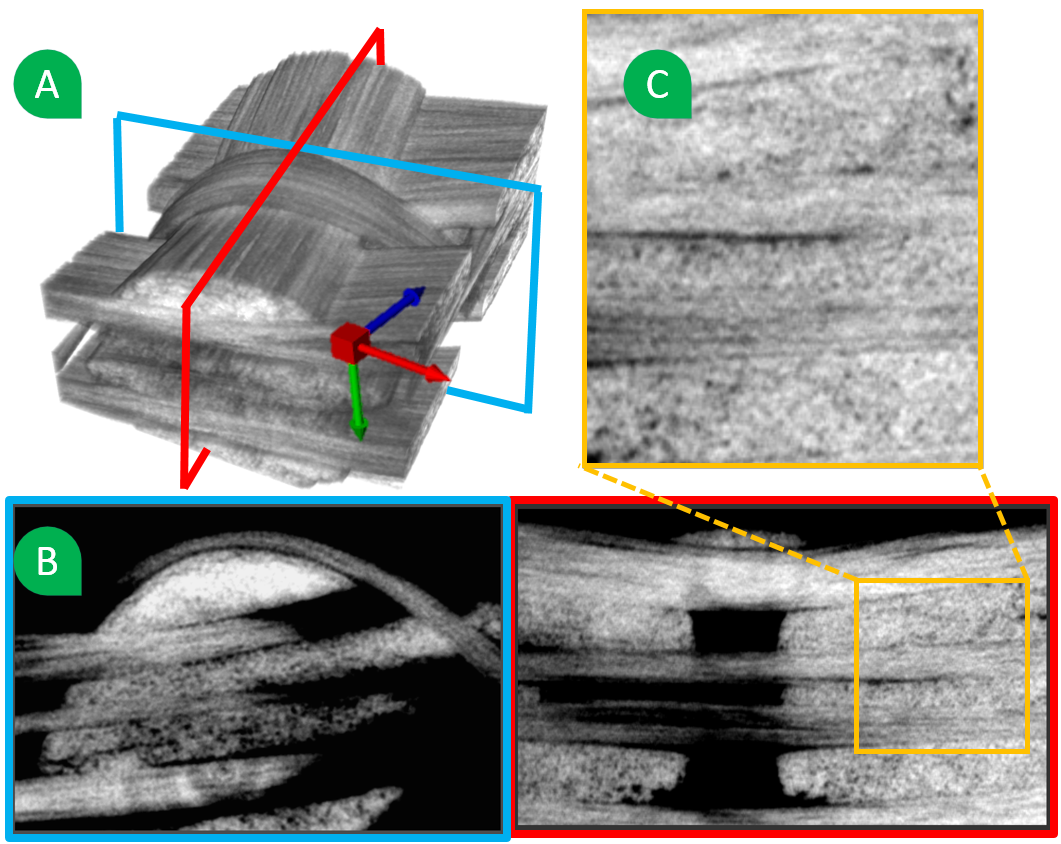
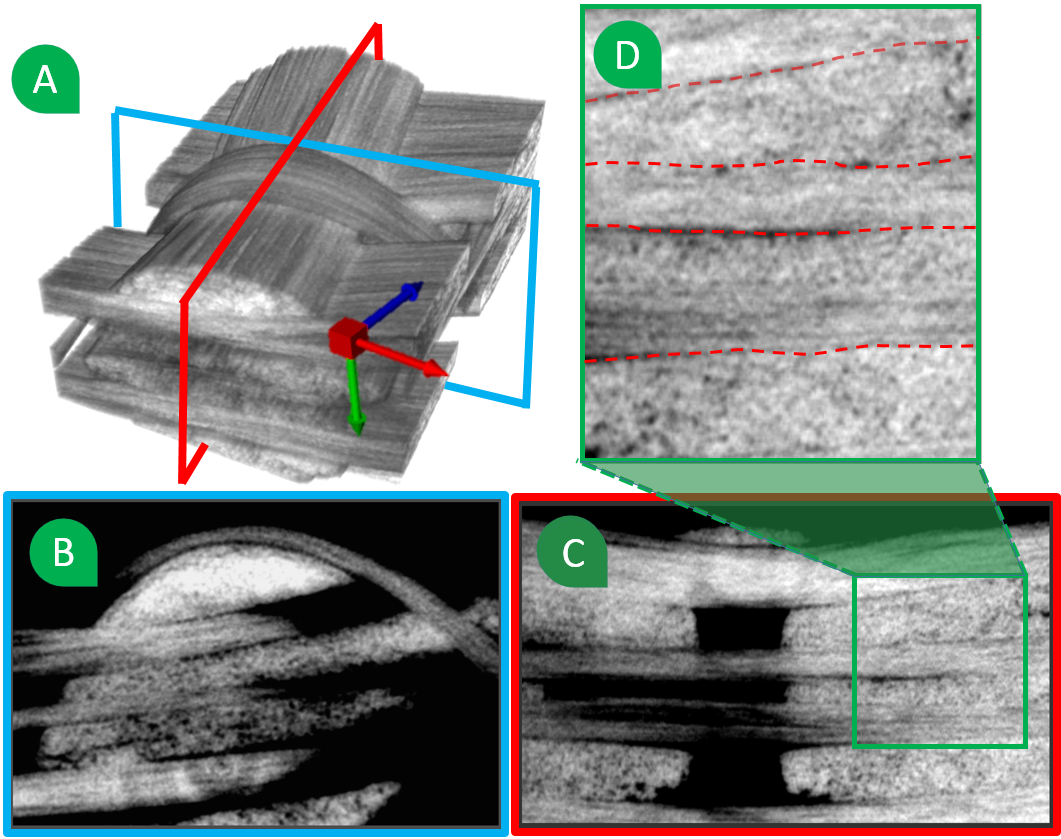
updated image,

diff --git a/chapters/MetaTracts.tex b/chapters/MetaTracts.tex
@@ -157,7 +157,7 @@ Tools based on image analysis, fiber tracking and clustering into bundles in DTI
 
 \begin{figure}
 \includegraphics[width=0.5\textwidth,clip=true, trim= 0cm 0cm 0cm 0cm]{imagesMT2014/MT_data_4_2.png}
-\caption{Data Characteristics. A: Shows a rendering of the data. B: Shows 2D slices along the X (Right) and Z (Left) axis. C: Shows a zoom of the yellow square, multiple bundles cross and are indistinguishable by visual inspection alone. }
+\caption{Data Characteristics. A: Shows a rendering of the data. B: Shows 2D slices along the X (Right) and Z (Left) axis. C: Shows a zoom of the green square, multiple bundles cross and are indistinguishable by visual inspection alone. }
 \label{fig:data-char}
 \end{figure}
 \section {Data Characteristic and Assumptions}
@@ -201,7 +201,7 @@ We make the following assumptions on our data.
 
 \begin{figure}
 \centering
-\includegraphics[width=0.45\textwidth]{imagesMT2014/algo_A.png}
+\includegraphics[width=0.5\textwidth]{imagesMT2014/algo.png}
 \caption{Flow chart of our approach}
 \label{fig:flowchart}
 \end{figure}
@@ -315,7 +315,7 @@ In $\mathbb{R}^2$ all the above properties hold except that cylinders are replac
 
 \begin{figure}[h]
   \begin{center}
-  \includegraphics[ width=0.9\linewidth]{imagesMT2014/MT_abstract_A2} %algo-1d}
+  \includegraphics[ width=0.4\textwidth]{imagesMT2014/MT_abstract} 
   \end{center}
  \caption{MetaTracts generation. B. MetaTract generation, region with $R_H$ less than threshold. A: close up of marked region in A. C: Parts of a single MetaTract.}
   \label{fig:algo}
@@ -347,7 +347,7 @@ Priority = \gamma_1 e^{(-angle^2 / \alpha^2)} + \gamma_2e^{(-dist^2 / \beta^2)}
 \end{equation}
  $\gamma_1$, $\gamma_2$ are the  weights ($\mathbb{R}_{\ge 0}$)  which decide how the priority depends on the affine combination of the two factors. For all our cases we use ($\gamma_1$ = $1 / 3 $ and $\gamma_2$ = $2 / 3$). In general we suggest $\gamma_1 +\gamma_2 = 1 $ and $\gamma_1 \leq \gamma_2$). At each iteration we pick the top element in the priority queue generate the corresponding cylinder and repeat the steps. Essentially, Eqn.~\ref{eqn:algo_1}, selects a grid point which is the furthest from the current point and going in a similar direction. This gives it the advantage of tackling noise/errors in local orientation better than integral curves by looking at multiple choices for vertices and avoiding intra cell interpolation (for orientation) in an already noisy environment. 
  
- In this particular example Figure~\ref{fig:algo}B we select the orange grid vertex next and repeat the process. We do not select the purple vertex (Figure~\ref{fig:algo}C) because it is not a candidate vertex. If we generate tracts that have erroneous local orientations they will not be able to find further possible candidate vertices and will be of short length. Short tracts are then remove. The MetaTracts generated are shown in Figure~\ref{fig:length_distribution}(a). The MetaTracts are colored with the mean orientation direction mapped to the RGB space. That consistent orientation is a key intrinsic feature in the data becomes visually pronounced.
+ In this particular example Figure~\ref{fig:algo}B we select the orange grid vertex next and repeat the process. We do not select the purple vertex (Figure~\ref{fig:algo}C) because it is not a candidate vertex. If we generate tracts that have erroneous local orientations they will not be able to find further possible candidate vertices and will be of short length. Short tracts are then remove. The MetaTracts generated are shown in Figure~\ref{fig:length_distribution}(A). The MetaTracts are colored with the mean orientation direction mapped to the RGB space. That consistent orientation is a key intrinsic feature in the data becomes visually pronounced.
  We apply uniform, dense seeding to the XCT volume data to trace and generate the tracts of fiber bundles. 
  
 % \begin{figure}[h]
@@ -392,11 +392,8 @@ Priority = \gamma_1 e^{(-angle^2 / \alpha^2)} + \gamma_2e^{(-dist^2 / \beta^2)}
 
 \begin{figure}[h]
 \centering
-%	\subfloat[]{\includegraphics[width=0.49\linewidth]{imagesMT2014/MT_crop16_MT_2.png}}
-	\subfloat[]{\includegraphics[width=0.49\linewidth]{imagesMT2014/MT_crop16_MT_2.PNG}} 
-	\subfloat[]{\includegraphics[width=0.49\linewidth]{imagesMT2014/length_distribution.PNG}}\\
-%	\subfloat[]{\includegraphics[width=0.9\linewidth]{imagesMT2014/mt_crop_16_orient.PNG}}
-	\caption{(a) MetaTracts colored according to mean orientations. (b) length distribution of individual MetaTracts for a particular bundle.}
+	\includegraphics[width=0.4\textwidth]{imagesMT2014/crop-16/length_dist.png}
+	\caption{(A) MetaTracts colored according to mean orientations. (B) length distribution of individual MetaTracts for a particular bundle.}
 	\label{fig:length_distribution}
 \end{figure}
 
@@ -405,7 +402,7 @@ Priority = \gamma_1 e^{(-angle^2 / \alpha^2)} + \gamma_2e^{(-dist^2 / \beta^2)}
 The output of the above step is a set of MetaTracts. In this step we focus on clustering the MetaTracts into plausible bundles. We use hierarchical clustering which has enjoyed considerable attention and success in DTI field. 
 
 However, the MetaTracts produced as described in Section 4 often do not extend the full length of the fiber bundle.  Thus, MetaTracts
-in a given fiber bundle may have very different lengths and may only partially overlap Figure~\ref{fig:length_distribution}(b).
+in a given fiber bundle may have very different lengths and may only partially overlap Figure~\ref{fig:length_distribution}(B).
 
 Moreover, Carbon fibers have both orientation and proximity information which can be used for clustering. Instead of creating some formula
 which artificially combined the two measures,  we first cluster based on orientation and then further subdivide each orientation cluster using proximity information. We found that different clustering methods were preferable
@@ -463,8 +460,8 @@ Using the Belkin and Niyogi algorithm we ``embed" these points in a low dimensio
 % 	\subfloat[3]{\includegraphics[width=0.2\linewidth]{imagesMT2014/crop_16_clustering_2.PNG}}
 % 	\subfloat[4]{\includegraphics[width=0.2\linewidth]{imagesMT2014/curveD.PNG}}
 %  	
- \includegraphics[width=0.5\textwidth]{imagesMT2014/crop-16/Capture4.PNG}
-  	\caption{(B)Shows the result of K means clustering with data points projected to the top three eigenvectors as major axes. (A,C) show the MetaTracts colored according to the clustering results. (The white to black tracts are only to show context.)  }
+ \includegraphics[width=0.5\textwidth]{imagesMT2014/crop-16/orientation_cluster.PNG}
+  	\caption{(C) Shows the result of K means clustering with data points projected to the top three eigenvectors as major axes. (A) shows the MetaTracts projected on top three eigenvectors. (B) shows 2D slices of C. }
   \label{fig:orientation_clustering}
   \end{figure}
   
@@ -506,7 +503,7 @@ we need to include information about the geometric proximity between MetaTracts.
  
  The Hausdorff distance is a metric so $H(P,Q) \le H(P,Q') + H(Q',Q)$
  but the directed Hausdorff is not.
- Unfortunately, the Hausdorff distance does not work well for our application since a fiber bundle may have many MetaTract which only partially cover the bundle (figure~\ref{fig:length_distribution}(b)).
+ Unfortunately, the Hausdorff distance does not work well for our application since a fiber bundle may have many MetaTract which only partially cover the bundle (figure~\ref{fig:length_distribution}(B)).
  If a MetaTract $P$ covers only part of the fiber bundle covered by $Q$,
  then $H_{dir}(P,Q)$ will be very small while $H_{dir}(Q,P)$ will be large.
  Thus, $H(P,Q)$ will be large, even though $P$ and $Q$ are in the same
@@ -564,7 +561,7 @@ We repeated both until a steady state of clusters is reached and no new small fi
 \section {Voxelization and surface extraction}
 \label{sec:vis}
 Apart from direct visualization of the MetaTracts, we show two simple extensions. The first way is to voxelize the original volume according to the clusters each voxel is associated with.
-The second is to extract the corresponding surfaces from the voxel data by binarizing the volume per cluster and extracting the isosurface of the largest connected component from the binary volume. To voxelize the space,  we compute a neighborhood around each voxel. We then enumerate the number of voxels of each class (cluster) in this neighborhood. The voxel is then assigned to the class with the maximum number of elements in the neighborhood and Fig.~\ref{fig:mesh}A shows the result of voxelization. Fig.~\ref{fig:mesh}(B, C) show examples of extracted meshes.
+The second is to extract the corresponding surfaces from the voxel data by binarizing the volume per cluster and extracting the isosurface of the largest connected component from the binary volume. To voxelize the space,  we compute a neighborhood around each voxel. We then enumerate the number of voxels of each class (cluster) in this neighborhood. The voxel is then assigned to the class with the maximum number of elements in the neighborhood and Fig.~\ref{fig:crop-16-decomp}C and Fig~\ref{fig:prepreg}D shows the result of voxelization. Fig.~\ref{fig:crop-16-decomp}(E, F) show examples of extracted meshes.
 %The MetaTracts and the clustering provide an abstraction of the fiber bundles and are used as a visualization tool. Through visualization MetaTracts we can answer all the queries mentioned in Section~\ref{sec:intro}. 
 %
 %In this Section we show two simple extensions to the MetaTracts and discuss how the end user might benefit from each. One way to visualize  the bundles is to color map the original volume according to the clusters each voxels are associated with (Section~\ref{subsec:voxel}). The second is to extract the surfaces from the voxel data (Section~\ref{subsec:surf_ext}). The visualizations can be used together, for example Fig.~\ref{fig:crop-13-mesh}e shows the crossover bundle as a mesh overlay on the MetaTracts.
@@ -595,7 +592,6 @@ The second is to extract the corresponding surfaces from the voxel data by binar
 
 \section {Experimental Results}
 \label {sec:results}
-
 %\begin{figure*}
 %\centering
 %\captionsetup[subfigure]{labelformat=empty}
@@ -608,47 +604,30 @@ The second is to extract the corresponding surfaces from the voxel data by binar
 %	\caption{(a) Shows in order, the volume rendering of the second data set, a single (2D) slice, the orientation clustering bundles and the final bundles followed by proximity clustering. (b) Shows in order the third data set, a single (2D) slice and finally the extracted fiber bundles.}
 %	\label{fig:crop-6}
 %\end{figure*}
-
-
-\begin{figure}[h]
+\begin{figure*}[t]
 \centering
-	\includegraphics[width=0.5\textwidth]{imagesMT2014/all_clusters.PNG}
-	\caption{(A) Orientation wise decomposition of data set Figure~\ref{fig:data-char}A into the extracted bundles and (B) all of them combined.}
+	\includegraphics[width=0.45\textwidth]{imagesMT2014/crop-16/bundles}~ 
+	\includegraphics[height=0.35\textwidth]{imagesMT2014/crop-16/vol_mesh.png} 
+	\caption{(A) Orientation wise decomposition of data set Figure~\ref{fig:data-char}A into the extracted bundles and (B) all of them combined.(C) Shows the results of voxelization of B. (D) shows a 2D slice of the volume. (E,F) shows the extracted meshes.}
 	\label{fig:crop-16-decomp}
-\end{figure}
-\begin{figure}[h]
-  \centering
-   \includegraphics[width=0.5\textwidth]{imagesMT2014/mesh_2_C.png}
-   \caption{Volumes and  meshes. (A) Shows the voxelized volume. (B) Shows two different extracted meshes (C) shows the combined meshes.}
-   \label{fig:mesh}
-   \end{figure}
+\end{figure*}
 \begin{figure}
 \centering
-	\includegraphics[width=0.5\textwidth]{imagesMT2014/crop-6-J_2.PNG}
+	\includegraphics[width=0.35\textwidth]{imagesMT2014/crop-6.PNG}
 	\caption{Data set with flat thin and compact bundles. A shows the volume rendering and a 2D slice with one of the boundaries marked in red, B shows the clusters according to individual orientation.C shows the complete result. D shows the voxelization of C.}
 	\label{fig:prepreg}
 \end{figure}
-\begin{figure}
-\centering
-	\includegraphics[width=0.5\textwidth]{imagesMT2014/Graph_crop16.PNG}
-	%\includegraphics[width=0.23\textwidth]{imagesMT2014/Graph_crop16_3.PNG}
-	\caption{Number of tracts and median, minimum and maximum length of individual MetaTracts in the orientation cluster Fig.~\ref{fig:orientation_clustering}C, clustered into 10 clusters (Fig.~\ref{fig:crop-16-decomp}A top). The unit for length is the grid cube length. Figure~\ref{fig:length_distribution}(b) shows the length of individual MetaTracts in cluster 6.}
-	\label{fig:len_dist_crop16}
-\end{figure}
+
 
 
 
 
 %Fig~\ref{fig:kull} (b) shows the results after the MetaTracts extraction. Fig.~\ref{fig:kull} (c) shows the results of the orientation clustering with $K$ set to 2. Note, that the curved fiber bundle has also been detected with the correct orientation. Fig. \ref{fig:kull} (d) and (e) shows the results of hierarchical clustering of \ref{fig:kull} (c) using proximity based clustering. Both the orientation were clustered into 14 classes.
 
-
-
-
-
  %glass
 We tested our method on multiple datasets with varying characteristics. 
 Figure~\ref{fig:crop-16-decomp} shows the result of data set~\ref{fig:data-char} decomposed into 2 orientation and each orientation decomposed into 10 clusters (the ground truth is 6 and 5 respectively). The hierarchical clustering is robust to over segmentation.
-Figure~\ref{fig:len_dist_crop16} shows the median, minimum and maximum lengths per cluster. We generate the correct clusters and outlier bundles with very few elements which can be discarded. As noted in section~\ref{subsec:dist_clustering} the tracts donot run the entire length of the dataset, the median length of MetaTracts in cluster 6 is 200 while the maximum MetaTract in the bundle is about 500 (measured in units of grid cube length). Fig.~\ref{fig:length_distribution}(b) shows the length per MetaTract distribution for a particular fiber bundle. 
+Figure~\ref{fig:len_dist_crop16} shows the median, minimum and maximum lengths per cluster. We generate the correct clusters and outlier bundles with very few elements which can be discarded. As noted in section~\ref{subsec:dist_clustering} the tracts donot run the entire length of the dataset, the median length of MetaTracts in cluster 6 is 200 while the maximum MetaTract in the bundle is about 500 (measured in units of grid cube length). Fig.~\ref{fig:length_distribution}(B) shows the length per MetaTract distribution for a particular fiber bundle. 
 
 Fig.~\ref{fig:prepreg} shows the results on a dense data set with \textit{flat and thin} bundles. The bundles are indistinguishable in the original data set (Fig.~\ref{fig:prepreg}A). A red dotted line shows one of the fiber bundle boundary. Fig.~\ref{fig:prepreg}B shows the fiber bundles for the two orientation. Fig.~\ref{fig:prepreg}C shows the combined results.Fig.~\ref{fig:prepreg}D shows the volume after voxelization.
 The fiber bundle extraction using MetaTracts was implemented in ITK and C++. All clustering was done in R. The preprocessing consists of metaTract generation the distance computation and the orientation clustering. The hierarchical clustering separately, on the results of the orientation clusters can be done  quickly in a few minutes on a Intel Xeon E5-2667 workstation PC according to user input `h'(section~\ref{sec:param_choices}). We store the normalized direction at each fiber point, thus both distance measures can be extracted simultaneously without extra computation.
@@ -663,9 +642,14 @@ The fiber bundle extraction using MetaTracts was implemented in ITK and C++. All
 (b)Shows how the red bundle `bends' under the green bundle, which is not immediately apparent from just the volume rendering.}
 \label{fig:context}
 \end{figure}
-
 \section{Parameter choices}
 \label{sec:param_choices}
+\begin{figure}
+\centering
+	\includegraphics[width=0.5\textwidth]{imagesMT2014/crop-16/histogram_10_A.PNG}
+	\caption{Number of tracts and median, minimum and maximum length of individual MetaTracts in the orientation cluster Fig.~\ref{fig:orientation_clustering}, clustered into 10 clusters (Fig.~\ref{fig:crop-16-decomp}A top). The unit for length is the grid cube length. Figure~\ref{fig:length_distribution}(B) shows the length of individual MetaTracts in cluster 6.}
+	\label{fig:len_dist_crop16}
+\end{figure}
 The critical parameters are $K$ for the K-means in orientation based clustering and $h$ for the hierarchical clustering. K denotes the number of major directions. Which is generally known a priori or can be easily estimated by looking at the weaving pattern. 
 Our framework is robust to the choice of $h$ (Section~\ref{sec:results}). Large $h$ keeps the major bundles intact. For example, in  Fig.~\ref{fig:len_dist_crop16}, where $h$ was set to ten while the ground truth was five, we observe that the major clusters remain well segmented and small clusters can be removed if they have too few elements (clusters 2,3,4 and 5 in Fig.~\ref{fig:len_dist_crop16} all have less than 10 elements). This is an appealing trait of the proximity based clustering, thus providing good results even when exact $h$ might be unknown.
 

diff --git a/metaTracts-pvis2014.tex b/metaTracts-pvis2014.tex
@@ -135,5 +135,5 @@ This work will provide a stepping stone to introduce novel non destructive testi
 %%use following if all content of bibtex file should be shown
 %\nocite{*}
 \bibliography{xBundle}
-\input {./chapters/supplementaryMaterial.tex}
+%\input {./chapters/supplementaryMaterial.tex}
 \end{document}
